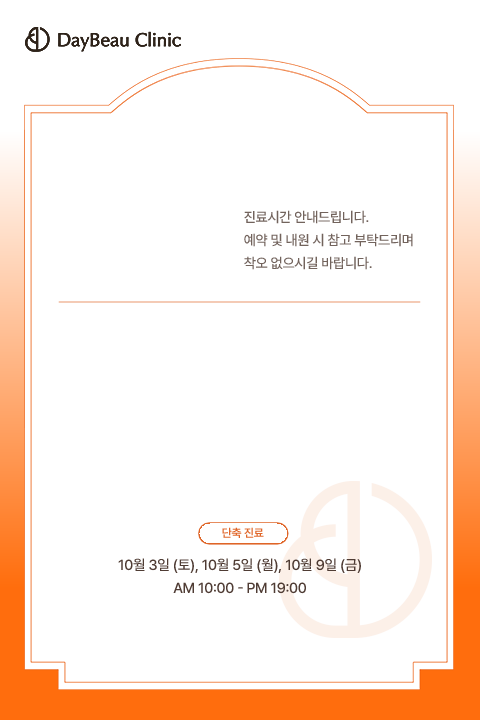
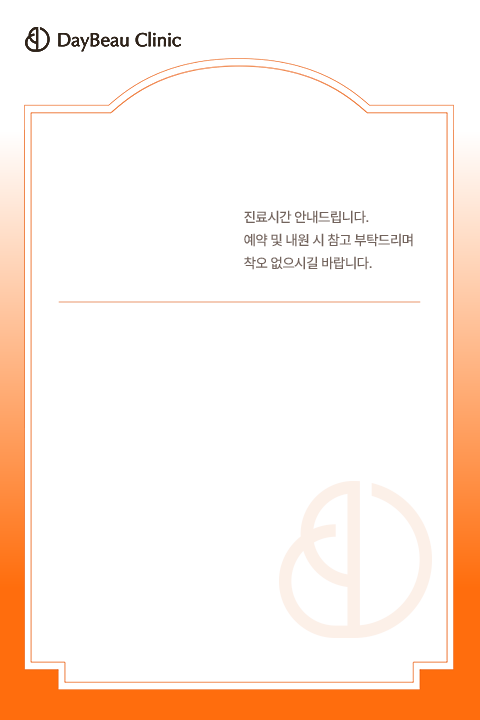
MO/PC 배경 잔여 텍스트 제거 + 하단 pill·폰트 축소 + PC 타이틀 겹침 수정
- MO/PC 배경에 옛 하단박스 텍스트(10월/AM·PM)가 baked돼 겹치던 문제 수정:
  PSD에서 '유지할 레이어(프레임/그라데이션/워터마크/로고/자막/선)만 남기고'
  나머지 전부 숨겨 재추출 (그룹명 제각각 문제 해결)
- 하단 상태 pill·날짜·시간 폰트 축소 + pill 패딩 컴팩트화
- PC 타이틀 경계(titleRight) 축소 + octFont 완화로 September가
  우측 세로 구분선과 겹치지 않게

Claude-Session: https://claude.ai/code/session_01KZF4ihkVbwkEzVchkr5nFz

Changed region(s): [[0.25, 0.7333, 0.75, 0.825]]

diff --git a/src/components/notice/NoticePoster.tsx b/src/components/notice/NoticePoster.tsx
@@ -60,7 +60,7 @@ const SPECS: Record<OutputSize, VariantSpec> = {
     notT: 0.283,
     month: { l: 0.535, t: 0.223, font: 0.031 },
     cal: { l: 0.108, t: 0.44, w: 0.776, wdFont: 0.016, dateFont: 0.036, circle: 0.088, rowGap: 0.015, labelFont: 0.0135 },
-    bottom: { l: 0.108, t: 0.75, w: 0.784, h: 0.15, pillFont: 0.018, dateFont: 0.018, timeFont: 0.016 },
+    bottom: { l: 0.108, t: 0.76, w: 0.784, h: 0.14, pillFont: 0.014, dateFont: 0.015, timeFont: 0.013 },
   },
   insta: {
     bg: bgInsta,
@@ -72,7 +72,7 @@ const SPECS: Record<OutputSize, VariantSpec> = {
     notT: 0.298,
     month: { l: 0.612, t: 0.262, font: 0.033 },
     cal: { l: 0.12, t: 0.505, w: 0.76, wdFont: 0.018, dateFont: 0.038, circle: 0.094, rowGap: 0.016, labelFont: 0.014 },
-    bottom: { l: 0.121, t: 0.76, w: 0.758, h: 0.15, pillFont: 0.019, dateFont: 0.019, timeFont: 0.017 },
+    bottom: { l: 0.121, t: 0.77, w: 0.758, h: 0.14, pillFont: 0.015, dateFont: 0.016, timeFont: 0.014 },
   },
   mo: {
     bg: bgMo,
@@ -85,20 +85,20 @@ const SPECS: Record<OutputSize, VariantSpec> = {
     notT: 0.305,
     month: { l: 0.52, t: 0.243, font: 0.028 },
     cal: { l: 0.11, t: 0.465, w: 0.78, wdFont: 0.024, dateFont: 0.048, circle: 0.11, rowGap: 0.018, labelFont: 0.017 },
-    bottom: { l: 0.121, t: 0.72, w: 0.758, h: 0.16, pillFont: 0.022, dateFont: 0.022, timeFont: 0.02 },
+    bottom: { l: 0.1, t: 0.73, w: 0.8, h: 0.15, pillFont: 0.016, dateFont: 0.017, timeFont: 0.015 },
   },
   pc: {
     bg: bgPc,
     header: true,
     branch: { right: 0.031, t: 0.062, font: 0.03 },
-    octFont: 0.13,
-    notFont: 0.12,
-    titleL: 0.089, titleRight: 0.37,
+    octFont: 0.115,
+    notFont: 0.115,
+    titleL: 0.089, titleRight: 0.34,
     octT: 0.35,
     notT: 0.49,
     month: { l: 0.088, t: 0.66, font: 0.06 },
     cal: { l: 0.4, t: 0.34, w: 0.53, wdFont: 0.03, dateFont: 0.058, circle: 0.062, rowGap: 0.02, labelFont: 0.024 },
-    bottom: { l: 0.406, t: 0.62, w: 0.521, h: 0.3, pillFont: 0.03, dateFont: 0.03, timeFont: 0.027 },
+    bottom: { l: 0.406, t: 0.62, w: 0.521, h: 0.3, pillFont: 0.024, dateFont: 0.025, timeFont: 0.022 },
   },
 };
 
@@ -262,14 +262,14 @@ function statusPill(status: DayStatus, fontSize: number, wrap = false) {
         alignItems: "center",
         justifyContent: "center",
         textAlign: "center",
-        border: `${Math.max(2, fontSize * 0.11)}px solid ${s.stroke}`,
+        border: `${Math.max(1.5, fontSize * 0.09)}px solid ${s.stroke}`,
         background: s.fill,
         color: s.text === "#ffffff" ? "#ffffff" : s.stroke,
         borderRadius: 999,
         fontSize,
         fontWeight: 600,
         lineHeight: 1.05,
-        padding: `${fontSize * 0.35}px ${fontSize * 0.7}px`,
+        padding: `${fontSize * 0.26}px ${fontSize * 0.55}px`,
         whiteSpace: wrap ? "normal" : "nowrap",
         maxWidth: wrap ? fontSize * 3.2 : undefined,
       }}
